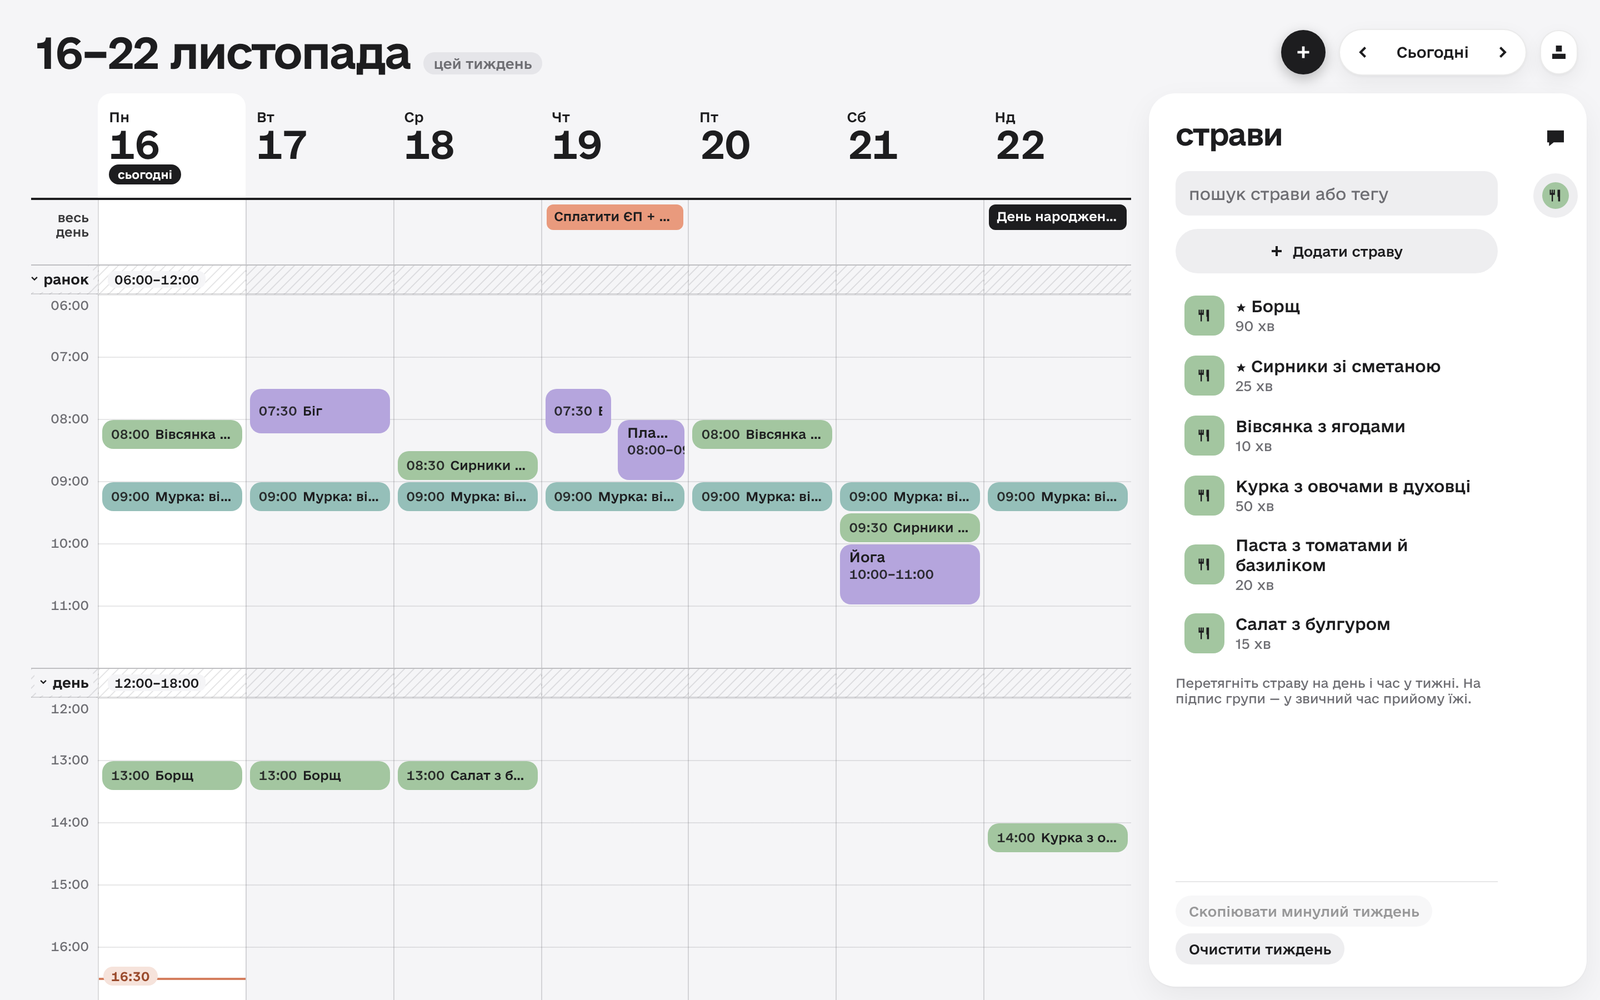
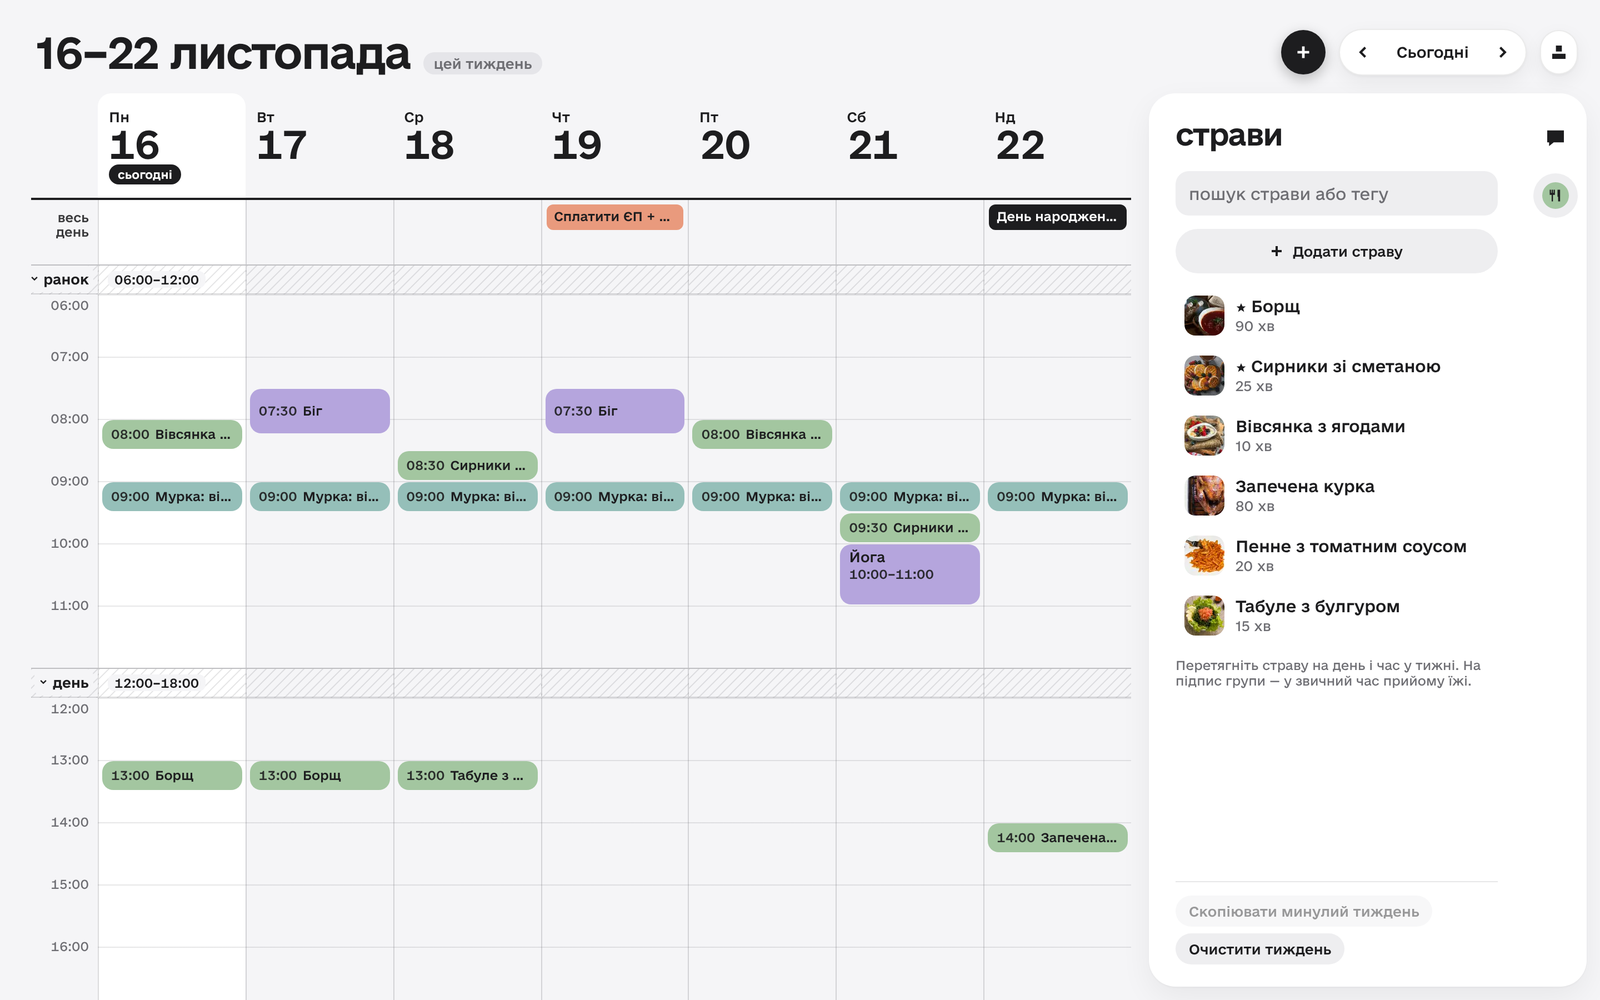
README: live demo link, screenshots with dish photos and new dish names
Claude-Session: https://claude.ai/code/session_01Nq77otRBtED72Koos1975G

diff --git a/README.md b/README.md
@@ -3,7 +3,7 @@
 A personal planning web app (PWA) for meals, sole-proprietor tax deadlines, hobbies and pet care, all in one week view.
 I designed it and built it with Claude Code, and I use it myself.
 
-**Live demo:** _link coming soon_ (no sign-in; sample data lives only in your browser)
+**Live demo:** [miy-kalendar-case.vercel.app](https://miy-kalendar-case.vercel.app) (no sign-in; sample data lives only in your browser)
 **Design system:** [мій календар design system](https://claude.ai/artifact/3vBzMkq3jixvQ184BwDobQ)
 
 ![Week view with the assistant panel](docs/screenshots/assistant.png)
